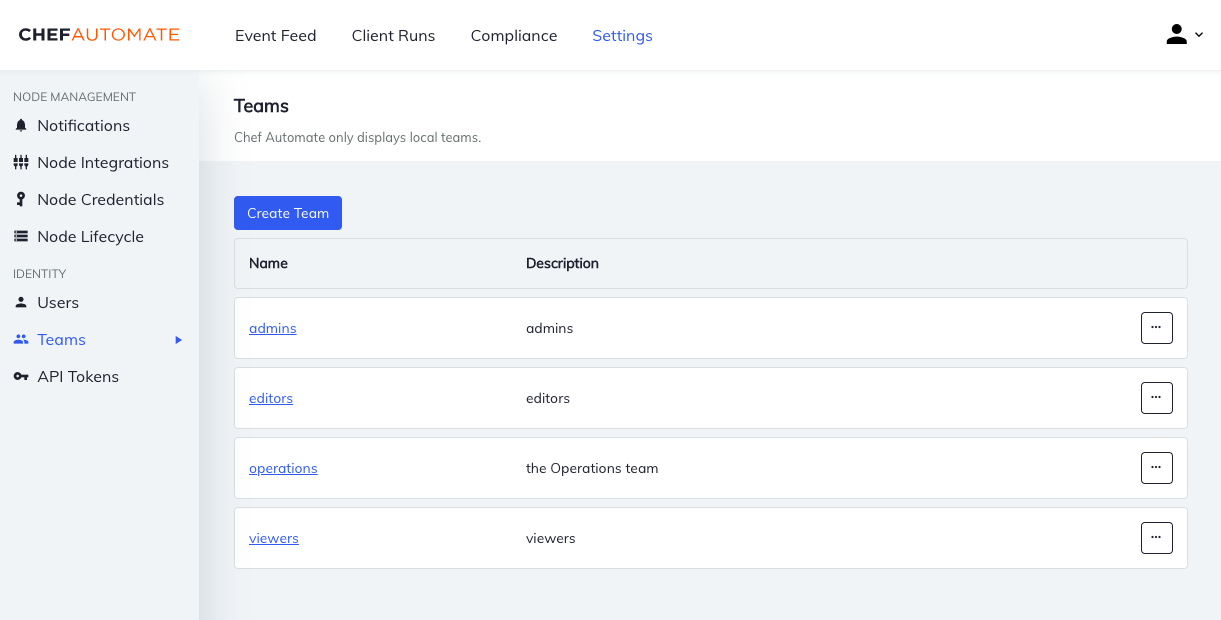
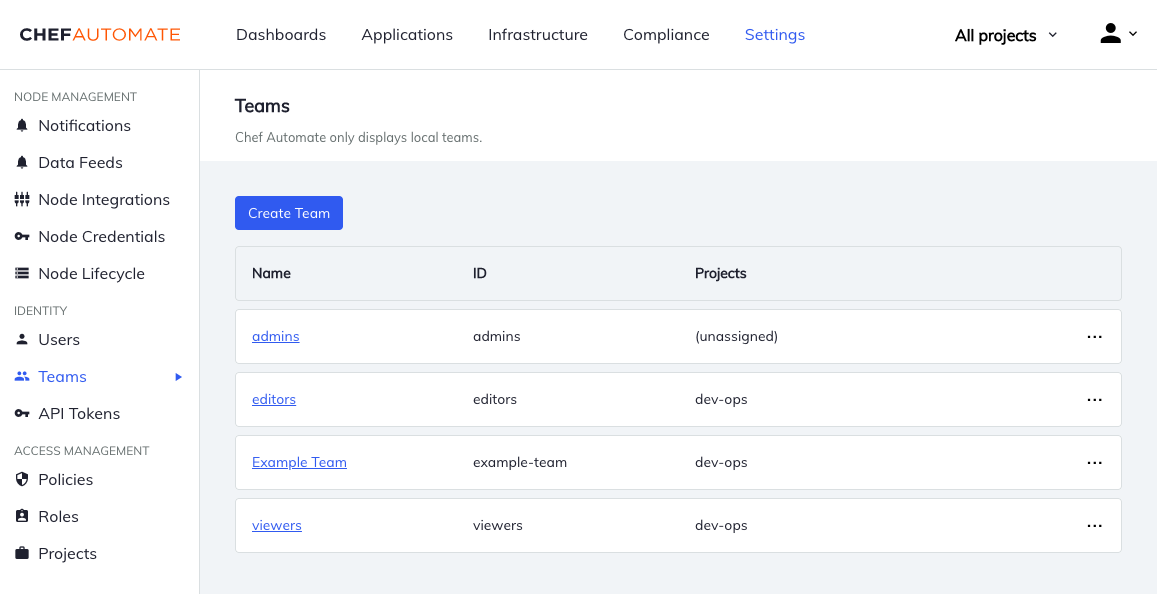
changed teams to be iam v2

diff --git a/components/automate-chef-io/content/docs/teams.md b/components/automate-chef-io/content/docs/teams.md
@@ -11,172 +11,29 @@ toc = true
     weight = 60
 +++
 
-{{< info >}}
-This content is specific to IAM v1. See [IAM v2 Overview]({{< ref "iam-v2-overview.md#" >}}) for IAM v2 specific information.
-{{< /info >}}
+## Overview
+This guide will show you how to manage Chef Automate teams. Import existing teams into Chef Automate with [Microsoft AD (LDAP)]({{< ref "configuration.md#microsoft-active-directory" >}}), [generic LDAP]({{< ref "configuration.md#ldap" >}}) or [SAML]({{< ref "configuration.md#saml" >}}). You can create local Chef Automate teams that are independent of LDAP or SAML.
 
-This guide will show you how to manage Chef Automate teams. Import existing teams into Chef Automate with [Microsoft AD (LDAP)]({{< ref "configuration.md#microsoft-active-directory" >}}), [generic LDAP]({{< ref "configuration.md#ldap" >}}) or [SAML]({{< ref "configuration.md#saml" >}}).
+Permission on the `iam:teams` resource is required to interact with teams. Any user that is part of the `admins` team will have this permission, otherwise, [IAM v2 custom policies]({{< relref "iam-v2-guide.md#creating-custom-policies" >}}) can be created to assign this permission.
 
-You can create local Chef Automate teams that are independent of LDAP or SAML. Teams can be used for [IAM v1 policy-based authorization]({{< ref "iam-v1-overview.md" >}}).
+## Managing Local Teams
 
-## Prerequisites
-
-Before you follow these instructions, we recommend you install the JSON processor [jq](https://stedolan.github.io/jq/) to ensure readable output. Without it, some commands may need to be modified.
-
-You will need administrative access to interact with the teams API. An existing administrative user can provide that access.
-
-To interact with the teams API using cURL, fetch an admin API token available from the `chef-automate` CLI, and set it to a usable variable:
-
-```bash
-export TOKEN=`chef-automate admin-token`
-```
-
-## Teams
-
-### Creating Teams
-
-#### Create a Team from Chef Automate
-
-As an administrative user, you can create a team in the UI from the **Settings** tab. Select _Teams_ in the sidebar, and then use the **Create Team** button:
+### Creating Local Teams
+Navigate to _Teams_ in the **Settings** tab. Then use the **Create Team** button, which opens a helper window for entering the team's _Name_, a unique _ID_, and optionally assign the team to some _Projects_.
 
 ![Create Local Team](/images/docs/admin-tab-teams-list.png)
 
-First, enter a unique name and description for the team. Save your new team:
+### Deleting Local Teams
+Navigate to _Teams_ in the **Settings** tab. Then open the menu at the end of the table row select **Delete Team**.
 
-![Create Team](/images/docs/admin-tab-team-create.png)
+### Adding Local Users to Teams
+To add local users to a team, navigate to _Teams_ from the **Settings** tab and locate the team. Navigate to the team's page, then use the **Add Users** button.
 
-Upon creating the team, you'll be taken to the new team's details page:
+#### Admins Team
+Chef Automate comes with an _Admins_ team, local users can be added directly to this team to assign them admin permissions.
 
-![Team Details](/images/docs/admin-tab-team-details.png)
+### Removing Local Users from Teams
+To remove local users from a team, navigate to _Teams_ from the **Settings** tab and locate the team. Navigate to the team's page, locate the user to remove, then use the menu at the end of the table row to remove the user.
 
-Add users to the new team:
-
-![Add Users](/images/docs/admin-tab-team-add-users.png)
-
-Edit the team name:
-
-![Edit Team](/images/docs/admin-tab-team-edit.png)
-
-Now, you can [create a new policy]({{< ref "iam-v1-overview.md#common-use-cases" >}}) for your team. All members will now have additional access based on that new policy.
-
-#### Create a Team using the Command Line with cURL
-
-To create a Chef Automate team, you'll need to provide a name and description. Team names must be unique.
-
-```bash
-curl -H "api-token: $TOKEN" -H "Content-Type: application/json" -d '{"name":"Team Name", "description":"My Chef Team"}' https://{{< example_fqdn "automate" >}}/api/v0/auth/teams?pretty
-```
-
-### Fetching Teams
-
-You can fetch a team by its ID:
-
-```bash
-curl -H  "api-token: $TOKEN" https://{{< example_fqdn "automate" >}}/api/v0/auth/teams/{id}?pretty
-```
-
-You can also fetch all teams, collectively:
-
-```bash
-curl -H "api-token: $TOKEN" https://{{< example_fqdn "automate" >}}/api/v0/auth/teams?pretty
-```
-
-### Updating Teams
-
-To update a team, you must supply its name and description:
-
-```bash
-curl -X PUT -H "api-token: $TOKEN" -H "Content-Type: application/json" -d '{"name":"An Updated Team Name", "description": "An updated description"}' https://{{< example_fqdn "automate" >}}/api/v0/auth/teams/{ID}?pretty
-```
-
-### Deleting Teams
-
-To delete a team, you must supply its ID:
-
-```bash
-curl -X DELETE -H "api-token: $TOKEN" -H "Content-Type: application/json" https://{{< example_fqdn "automate" >}}/api/v0/auth/teams/{ID}
-```
-
-## Managing Chef Automate User and Team Associations
-
-### Viewing a User's Teams
-
-To view a user's teams, you will need the user's ID:
-
-```bash
-curl -H "api-token: $TOKEN" https://{{< example_fqdn "automate" >}}/api/v0/auth/users/{user_ID}/teams?pretty
-```
-
-### Viewing a Team's Users
-
-To view a team's users, you will need the team's ID. This returns JSON that contains an array of user IDs associated with the team:
-
-```bash
-curl -H "api-token: $TOKEN" https://{{< example_fqdn "automate" >}}/api/v0/auth/teams/{team_ID}/users?pretty
-```
-
-### Adding Users to a Team
-
-To add users to a team, you will need both the team ID and the IDs of the users you will add:
-
-```bash
-curl -H "api-token: $TOKEN" -H "Content-Type: application/json" -d '{"user_ids":["userID", "secondUserID"]}' https://{{< example_fqdn "automate" >}}/api/v0/auth/teams/{team_ID}/users?pretty
-```
-
-### Removing Users from a Team
-
-To remove users from a team, you will need both the team ID and the IDs of the users you will remove:
-
-```bash
-curl -X PUT -H "api-token: $TOKEN" -H "Content-Type: application/json" -d '{"id":"teamID", "user_ids":["userID", "secondUserID"]}' https://{{< example_fqdn "automate" >}}/api/v0/auth/teams/{team_ID}/users
-```
-
-## Common Use Cases
-
-### Adding Users to the Admin Team
-
-Adding users to the default `admins` team will give them full access to all endpoints in Chef Automate; they will be able to manage policies, users, teams, and integrations.
-
-You may add users on the `admins` Team details page:
-
-![Add Users to Admins](/images/docs/admin-tab-team-add-admins.png)
-
-You may also complete this operation from the command line.
-
-1. Fetch an admin API token available from the `chef-automate` CLI and set it to a usable variable:
-
-    ```bash
-    export TOKEN=`chef-automate admin-token`
-    ```
-
-1. Get the `admins` team ID and set it to a usable variable:
-
-    ```bash
-    export ID=`curl -H "api-token: $TOKEN" https://{{< example_fqdn "automate" >}}/api/v0/auth/teams | jq -r '.teams[] | select(.name =="admins").id'`
-    ```
-
-1. Confirm the user IDs for the user(s) you want to add to the `admins` team.
-
-    ID of a single user:
-
-    ```bash
-    curl -H "api-token: $TOKEN" https://{{< example_fqdn "automate" >}}/api/v0/auth/users/{username} | jq .id
-    ```
-
-    Fetch all users (with IDs):
-
-    ```bash
-    curl -H "api-token: $TOKEN" -H "Content-Type: application/json" https://{{< example_fqdn "automate" >}}/api/v0/auth/users?pretty
-    ```
-
-1. Add the user(s) to the `admins` team:
-
-    ```bash
-    curl -H "api-token: $TOKEN" -H "Content-Type: application/json" -d '{"user_ids":["userID", "secondUserID]}' https://{{< example_fqdn "automate" >}}/api/v0/auth/teams/$ID/users?pretty
-    ```
-
-1. Verify that the user is a member of the team by listing all members of the `admins` team:
-
-    ```bash
-    curl -H "api-token: $TOKEN" -H "Content-Type: application/json" https://{{< example_fqdn "automate" >}}/api/v0/auth/teams/$ID/users?pretty
-    ```
+### Changing Team Details
+Both the team name and the projects a team belongs to can be changed by navigating to _Teams_ from the **Settings** tab, selecting an individual team and then navigating to the **Details** tab.
